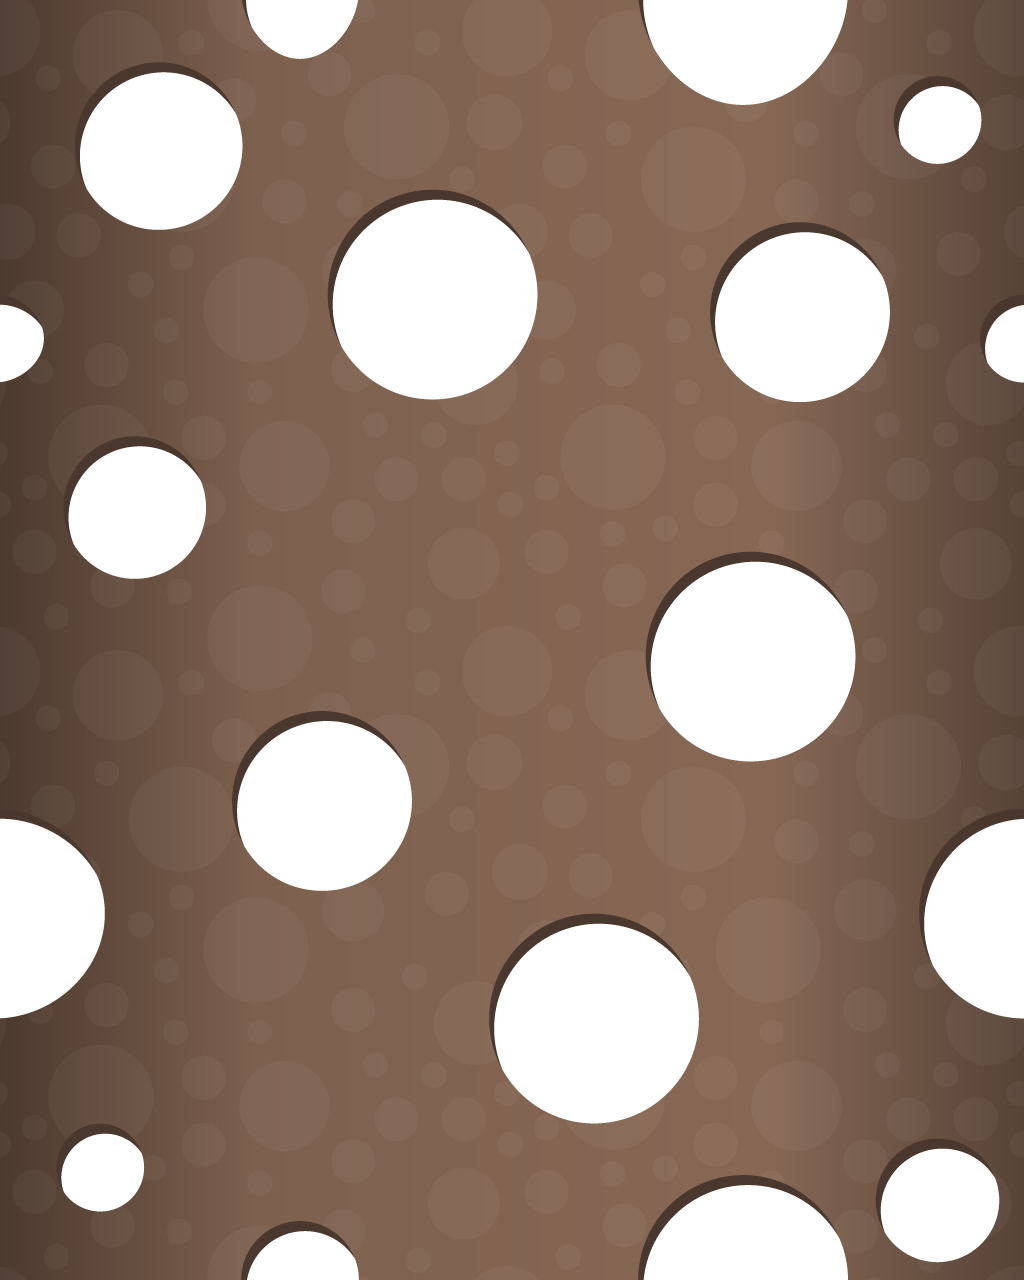
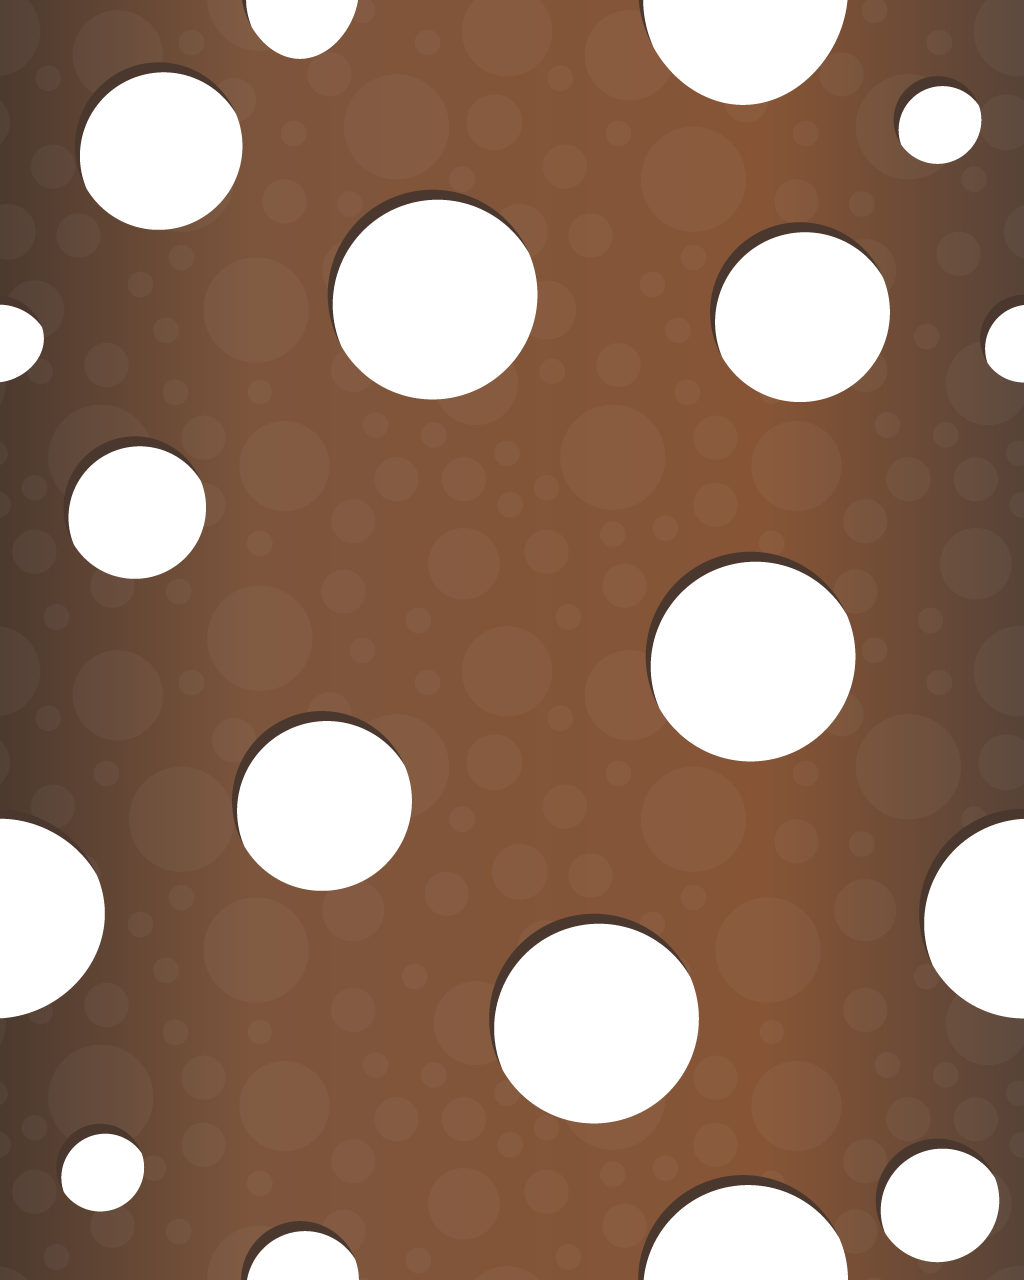
Reworked ledge generation & updated graphics slightly

Changed region(s): [[0.5, 0.0, 0.8125, 1.0]]

diff --git a/js/entities.js b/js/entities.js
@@ -5,6 +5,7 @@ Entities = function(game) {
 	this.shrooms = null;
 	this.explosions = null;
 	this.shroomLord = null;
+	this.runBombs = false;
 }
 
 Entities.prototype = {
@@ -24,23 +25,30 @@ Entities.prototype = {
 		this.bombs = game.add.group();
 		this.explosions = game.add.group();
 		
-	   	//  Make it rain
-		for (var i = 0; i < 20; i++)
-		{
-			this.createEntity();
-		}
-		
-		 // Add some funky stuff
-
 		this.shroomLord = this.game.add.sprite(400, 320, 'shroomLord');
 		this.shroomLord.animations.add('walk', [2, 3, 4, 5, 6], 8, true);
 		this.shroomLord.animations.play('walk');
+
+
+				for (var i = 0; i < 10; i++)
+				{
+					//this.spawnBomb(false);
+				}
 
 	},
 	
 	update : function() {
 		game.physics.overlap(player.sprite, this.explosions, this.explosionDamage, null, this);
 		this.bombs.forEachAlive(this.updateBomb, this);
+
+
+		if (player.sprite.y < game.world.height-640 && this.runBombs == false) {
+			this.runBombs = true;
+				for (var i = 0; i < 20; i++)
+				{
+					this.createEntity();
+				}
+		}
 	},
 	
 	updateBomb : function(bomb) {
@@ -54,7 +62,7 @@ Entities.prototype = {
 	},
 	
 	createEntity : function() {
-		if (Math.random() <= 0.8) {
+		if (Math.random() <= difficulty) {
 			this.spawnShroom();
 		} else {
 			this.spawnBomb();
@@ -62,7 +70,6 @@ Entities.prototype = {
 	},
 
 	spawnShroom : function() {
-
 		if (this.shrooms.countDead() > 0){
 			var shroom = this.shrooms.getFirstDead();
 			shroom.x = Math.random()*924+100;
@@ -83,8 +90,9 @@ Entities.prototype = {
 		shroom.body.velocity.x = (Math.random()*500)-250;
 	},
 
-	spawnBomb :function() {
-	
+	spawnBomb :function(timer) {
+		console.log(timer);
+		timer = typeof timer !== 'undefined' ? timer : true;
 		if (this.bombs.countDead() > 0){
 			var bomb = this.bombs.getFirstDead();
 			bomb.x = Math.random()*924+100;
@@ -102,21 +110,11 @@ Entities.prototype = {
 		}
 		bomb.timer = 200;
 		bomb.body.velocity.x = (Math.random()*500)-250;
-				
-		this.game.time.events.add(Phaser.Timer.SECOND * 2, this.bombBlast, bomb);
 		
-	},
-	
-	bombBlast :function() {
-// 		console.log('Timer: ' + this.timer);
-		//this.timer -= 1;
-		entities.spawnExplosion(this.x,this.y);
-		entities.createEntity();
-		this.kill();
-
-//  		emitterBomb.x = this.x;
-//  		emitterBomb.y = this.y;
-//  		emitterBomb.start(true, 1000, null, 10);
+		if (timer == true) {
+			this.game.time.events.add(Phaser.Timer.SECOND * 2, this.bombBlast, bomb);
+		}
+		
 	},
 		
 	spawnExplosion :function(x, y) {
@@ -127,11 +125,17 @@ Entities.prototype = {
 			exp.revive();
 		} else { 
 			var exp = this.explosions.create(x, y, 'explosion');
-			exp.animations.add('boom', [0, 1, 2, 3, 4, 5, 6, 7, 8, 9], 24, true);
-			exp.body.setCircle(100, 100, 100);
+			exp.animations.add('boom', [0, 1, 2, 3, 4, 5, 6, 7, 8, 9]);
+			exp.body.setCircle(80, 100, 100);
 			exp.anchor.setTo(0.5,0.5);
 		}
 		exp.animations.play('boom', 24, false, true);
+	},
+
+	bombBlast :function() {
+		entities.spawnExplosion(this.x,this.y);
+		entities.createEntity();
+		this.kill();
 	},
 		
 	collectShroom :function (player, shroom) {
@@ -141,20 +145,15 @@ Entities.prototype = {
 	},
 	
 	recycleEntity: function (collector, entity) {
-		//console.log(shroom);
 		entity.x = Math.random()*924+100;
 		entity.y = player.sprite.y-640;
 		entity.body.velocity.y = 0;
 		entity.body.velocity.x = (Math.random()*500)-250;
-		//console.log('recycle');
 	},
 	
 	explosionDamage : function(player, exp) {
-		//bomb.kill();
-		//this.bombBlast(bomb);
-		//entities.createEntity();
 		player.animations.play('hurt');
-		health = health - 1;
+		player.heart--;
 	},
 
 }

diff --git a/js/game.js b/js/game.js
@@ -19,7 +19,7 @@ function preload() {
 }
 
 var score = 0;
-var health = 100;
+var difficulty = 0.7;
 var temp = 0;
 
 function create() {
@@ -31,72 +31,51 @@ function create() {
 
 function update() {
 
-	controls.update();
+	game.physics.overlap(player.sprite, entities.shrooms, entities.collectShroom, null, this);
 
-	//  Collide the player and the stars with the platforms
-	//game.physics.overlap(player.sprite, level.platforms, player.platformStand, null, this);
-	
-	game.physics.overlap(player.sprite, level.boundary, player.fallDamage)
-	
-	game.physics.collide(player.sprite, level.platforms, null, level.platformCollision);
-
-	
-	game.physics.collide(player.sprite, level.boundary);
-	
- 	//game.physics.collide(entities.shrooms, level.platforms.above);
- 	game.physics.collide(entities.shrooms, level.platforms);
- 	
-	game.physics.collide(entities.bombs, level.platforms);
-	//game.physics.collide(entities.bombs, level.platforms.below);
-	
- 	game.physics.collide(entities.bombs, level.boundary);
- 	game.physics.collide(entities.shrooms, level.boundary);
- 	
- 	//game.physics.collide(entities.bombs, entities.shrooms);
-
-
-	game.physics.collide(player.gibs, level.platforms);
-
- 	
- 	game.physics.overlap(player.sprite, entities.shrooms, entities.collectShroom, null, this);
- 	
  	game.physics.overlap(level.entityCollector, level.platforms, level.dropPlatform, null, this);
- 	
  	game.physics.overlap(level.entityCollector, entities.shrooms, entities.recycleEntity, null, this);
  	game.physics.overlap(level.entityCollector, entities.bombs, entities.recycleEntity, null, this);
- 	
- 	
+	
+	game.physics.overlap(player.sprite, level.boundary, player.fallDamage)
+	game.physics.collide(player.sprite, level.platforms, null, level.platformCollision);
+	
+	game.physics.collide(level.boundary, player.sprite);
+	game.physics.collide(level.boundary, entities.bombs);
+ 	game.physics.collide(level.boundary, entities.shrooms);
+	
+ 	game.physics.collide(level.platforms, entities.shrooms);
+	game.physics.collide(level.platforms, entities.bombs);
+	
+	game.physics.collide(level.platforms, player.gibs);
+	game.physics.collide(level.boundary, player.gibs);
+
 	player.update();
 	entities.update();
-	
 	level.update();
 
 	//document.getElementById("score").innerHTML=score;
  	//document.getElementById("health").innerHTML=health;
- 	//document.getElementById("health-bar").style.width= health + "%";
+ 	document.getElementById("health-bar").style.width= player.heart + "%";
 }
 
 
 function render() {
 
-	
 	game.debug.renderText("FPS: " + game.time.fps, 940, 30);
 
 	if (debug == true){
-
-		//game.debug.renderText(entities.shrooms.countLiving(), 900, 30);
 
 		// Sprite debug info
 		entities.bombs.forEachAlive(renderPhysics, this)
 		entities.shrooms.forEachAlive(renderPhysics, this)
 		level.platforms.forEachAlive(renderPhysics, this)
+		entities.explosions.forEachAlive(renderPhysics, this)
 
 		game.debug.renderSpriteCorners(player.sprite, false, false);
 		game.debug.renderBodyInfo(player.sprite, 32, 32);
 	
 	}
-	
-	//game.debug.renderSpriteCorners(player.buttons.a);
 }
 
 function renderPhysics(entity) {

diff --git a/js/level.js b/js/level.js
@@ -26,6 +26,7 @@ Level.prototype = {
 		this.game.load.image('shroomPlatformRedSmall', 'assets/sprites/platform_red_small.png');
 		this.game.load.image('shroomPlatformTanSmall', 'assets/sprites/platform_tan_small.png');
 		this.game.load.image('hitBox', 'assets/sprites/transTest.png');
+		this.game.load.spritesheet('bed', 'assets/sprites/bed_spritesheet.png', 190, 130);
 	},
 
 	create: function() {
@@ -46,15 +47,13 @@ Level.prototype = {
 		this.bg.height = game.camera.height;
 		this.bg.fixedToCamera = true;
 		
-		
 		this.bg_outside = game.add.tileSprite(0, 0, this.worldWidth, this.worldHeight, 'bg_outside');
 		this.bg_outside.alpha = 0.5;
 		this.bg_inside = game.add.tileSprite(0, 0, this.worldWidth, this.worldHeight, 'bg_inside');
 
-	 
 		//  Groups for platforms
-		this.platforms = game.add.group();
-		this.boundary = game.add.group();
+		this.platforms = this.game.add.group();
+		this.boundary = this.game.add.group();
 		
 		this.entityCollector = this.game.add.sprite(0, 700, 'hitBox');
 		this.entityCollector.scale.setTo(this.worldWidth/20, 1);
@@ -69,27 +68,24 @@ Level.prototype = {
 		bossPlatform.scale.setTo(15, 1);
 		bossPlatform.body.immovable = true;
 		
-		this.generateLedges(this.worldWidth/4, this.worldHeight - 200);
-		this.generateLedges(this.worldWidth/4*2, this.worldHeight - 300);
+		this.generateLedges(this.worldWidth/12*1.5, this.worldHeight - 200);
+		this.generateLedges(this.worldWidth/12*6.5, this.worldHeight - 300);
+
+		this.bed = this.game.add.sprite(this.worldWidth/2, this.worldHeight-165, 'bed');
+		this.bed.animations.add('sleep', [0, 1, 2, 3, 4], 4, true);
+		this.bed.animations.play('sleep');
+
+
 	},
 	
 	generateLedges : function(startX, startY) {
-		var previous = {
-			x: startX,
-			y: startY
-		}
+
+		var previousY = startY;
 		
-		while (previous.y > 680) {
-			this.makeLedge(previous.x, previous.y);
-			//previous.x += (Math.random() * 400) - 200;
-			previous.y -= 200;
-
-
-			initialValue = ((Math.random() * 512) - 256 + previous.x)/(this.worldWidth/2);
-			beforeDecimal = Math.floor(initialValue);
-			afterDecimal = initialValue - beforeDecimal;
-
-			previous.x = afterDecimal * this.worldWidth;
+		while (previousY > 700) {
+			//previous.x = Math.random()*(this.worldWidth/12*4)+startX;
+			this.makeLedge(Math.random()*(this.worldWidth/12*4)+startX, previousY);
+			previousY -= 200;
 		}
 		
 	},
@@ -110,6 +106,7 @@ Level.prototype = {
 		}
 
 		ledge.body.immovable = true;
+		ledge.anchor.setTo(0.5,0.5);
 		ledge.body.checkCollision.left = false;
 		ledge.body.checkCollision.right = false;
 		ledge.body.checkCollision.bottom = false;

diff --git a/js/player.js b/js/player.js
@@ -1,8 +1,10 @@
 Player = function(game) {
 	this.game = game;
 	this.sprite = null;
+
 	this.cursors = null;
 	this.gibs = null;
+
 	this.movement = {
 		targetSpeed : 300,
 		direction : 0,
@@ -24,6 +26,8 @@ Player.prototype = {
 
 		this.sprite = game.add.sprite(70, game.world.height - 100, 'player');
 		 
+		this.sprite.heart = 10;
+
 		this.sprite.body.gravity.y = 900;
 		this.sprite.body.bounce.y = 0.001;
 		this.sprite.body.linearDamping = -10;
@@ -47,9 +51,9 @@ Player.prototype = {
 
 	update : function() {
 
-		if (health <= 90) {
+		if (this.sprite.heart <= 0) {
 			this.playerDeath(this.sprite, this);
-			health = 100;
+			this.sprite.heart = 10;
 			this.sprite.kill();
 			//document.getElementById("game-over").style.display='block';
 			//document.getElementById("score-final").innerHTML=score;
@@ -122,15 +126,10 @@ Player.prototype = {
 
 	},
 	
-	platformStand : function(player, platform) {
-		player.body.velocity.y = 0;
-	},
-	
 	fallDamage : function(player, ground) {
 		//console.log(player)
 		if (player.body.velocity.y > 800){
-			health = 0;
-			console.log(player.body.velocity.y);
+			player.heart = 0;
 		}
 	},
 
@@ -154,14 +153,14 @@ Player.prototype = {
 			}
 
 			gib.body.gravity.y = 600;
-			gib.body.velocity.setTo(Math.random()*1000-500, Math.random()*1000-500);
+			gib.body.velocity.setTo(Math.random()*2000-1000, Math.random()* -1000);
 			//gib.body.velocity.x = Math.random()*1000-500;
 			//gib.body.velocity.y = Math.random()*1000-500;
 			gib.anchor.setTo(0.5, 0.5);
 			gib.body.rotation = Math.random()*360;
 
-			gib.body.bounce.y = (Math.random()/2);
-			gib.body.bounce.x = -0.7;
+			gib.body.bounce.y = 0.5;
+			gib.body.bounce.x = 0.5;
 			gib.body.linearDamping = 5;
 			gib.body.collideWorldBounds = true;
 

diff --git a/js/controls.js b/js/controls.js
@@ -53,13 +53,5 @@ Controls.prototype = {
 			
 			
 		}	
-	},
-	
-	update : function() {
-		
-	},
-
-	buttonPressA : function(button) {
-		//console.log(button);
 	}
 }
